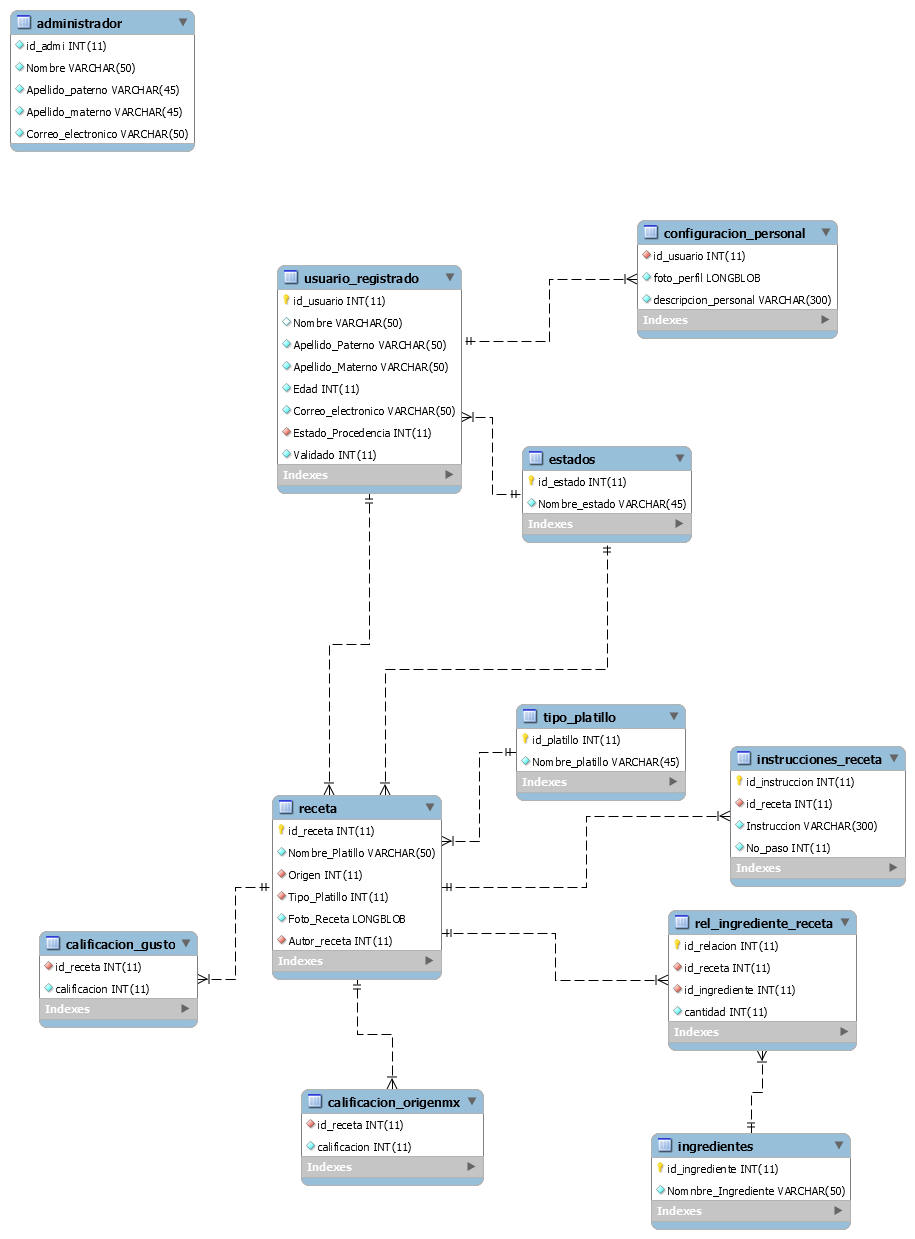
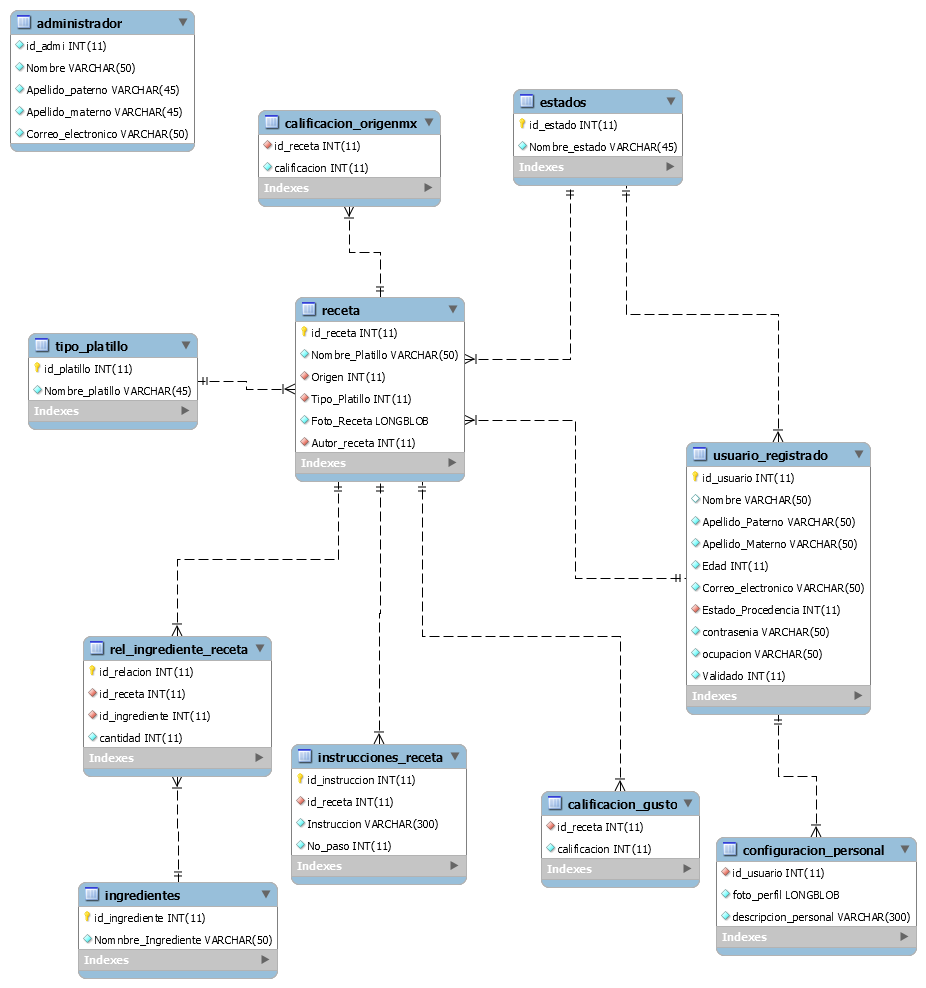
registroListo

diff --git a/Clases/usuarioVisitante.php b/Clases/usuarioVisitante.php
@@ -15,24 +15,17 @@
 include ("../dataBase/BaseDatos.php");
 
 class usuarioVisitante {
-    private $nombre="";
-    private $paterno=""; 
-    private $materno="";
-    private $edad=0;
-    private $correo=""; 
-    private $estado="";
-    
-    
-    public function registrarUsuario($nombreUsr ,$paterno,$materno ,$edad,$correo ,$estado,$clave){
+     
+    public function registrarUsuario($nombreUsr ,$paterno,$materno ,$edad,$correo ,$estado,$clave,$ocupacion){
          $retorno="";
         
-        if($nombreUsr =="" or $paterno=="" or $materno =="" or $edad=="" or $correo =="" or $estado=="" or $clave ==""){
+        if($nombreUsr =="" or $paterno=="" or $materno =="" or $edad=="" or $correo =="" or $estado=="" or $clave =="" or $ocupacion==""){
             $retorno="Falta llenar campos";
         }else{
             $obj = new BaseDatos();
             $conexion = new mysqli($obj->servidor, $obj->usuario, $obj->clave, $obj->nombreBD); 
             if ($conexion) { 
-                $query = "call registrarUsuario('$nombreUsr','$paterno','$materno',$edad,'$correo',$estado,'$clave');"; 
+                $query = "call registrarUsuario('$nombreUsr','$paterno','$materno',$edad,'$correo',$estado,'$clave','$ocupacion');"; 
                 $resultado = $conexion->query($query); 
                 if (!$resultado) { 
                     $retorno= 'No se pudo ejecutar la consulta: ' . $conexion->error;

diff --git a/Clases/usuarioRegistrado.php b/Clases/usuarioRegistrado.php
@@ -1,0 +1,23 @@
+<?php
+
+/*
+ * To change this license header, choose License Headers in Project Properties.
+ * To change this template file, choose Tools | Templates
+ * and open the template in the editor.
+ */
+
+/**
+ * Description of usuarioRegistrado
+ *
+ * @author USER
+ */
+class usuarioRegistrado {
+    private $nombre="";
+    private $paterno=""; 
+    private $materno="";
+    private $edad=0;
+    private $correo=""; 
+    private $estado="";
+    private $ocupacion="";
+    private $clave="";
+}

diff --git a/formularios/registroUsuario.php b/formularios/registroUsuario.php
@@ -58,6 +58,7 @@ and open the template in the editor.
                 <option value="31">Yucatán </option>
                 <option value="32">Zacatecas</option>
             </select>
+            <input type="text" required id="ocupacion" name="ocupacion" placeholder="Ocupacion">
             <input type="password" required id="clave" name="clave" placeholder="Clave">
             <input type="submit" value="Enviar" id="guardar">
         </form>  

diff --git a/servidor/registroUsuario.php b/servidor/registroUsuario.php
@@ -9,6 +9,7 @@
     $correo=$_POST['correo'];
     $estado=$_POST['estado'];
     $clave=$_POST['clave'];
-    $respuestaMetodo=$usuarioNuevo->registrarUsuario($nombreUsr, $paterno, $materno, $edad, $correo, $estado, $clave);
+    $ocupacion=$_POST['ocupacion'];
+    $respuestaMetodo=$usuarioNuevo->registrarUsuario($nombreUsr, $paterno, $materno, $edad, $correo, $estado, $clave,$ocupacion);
     echo $respuestaMetodo;
 ?>
